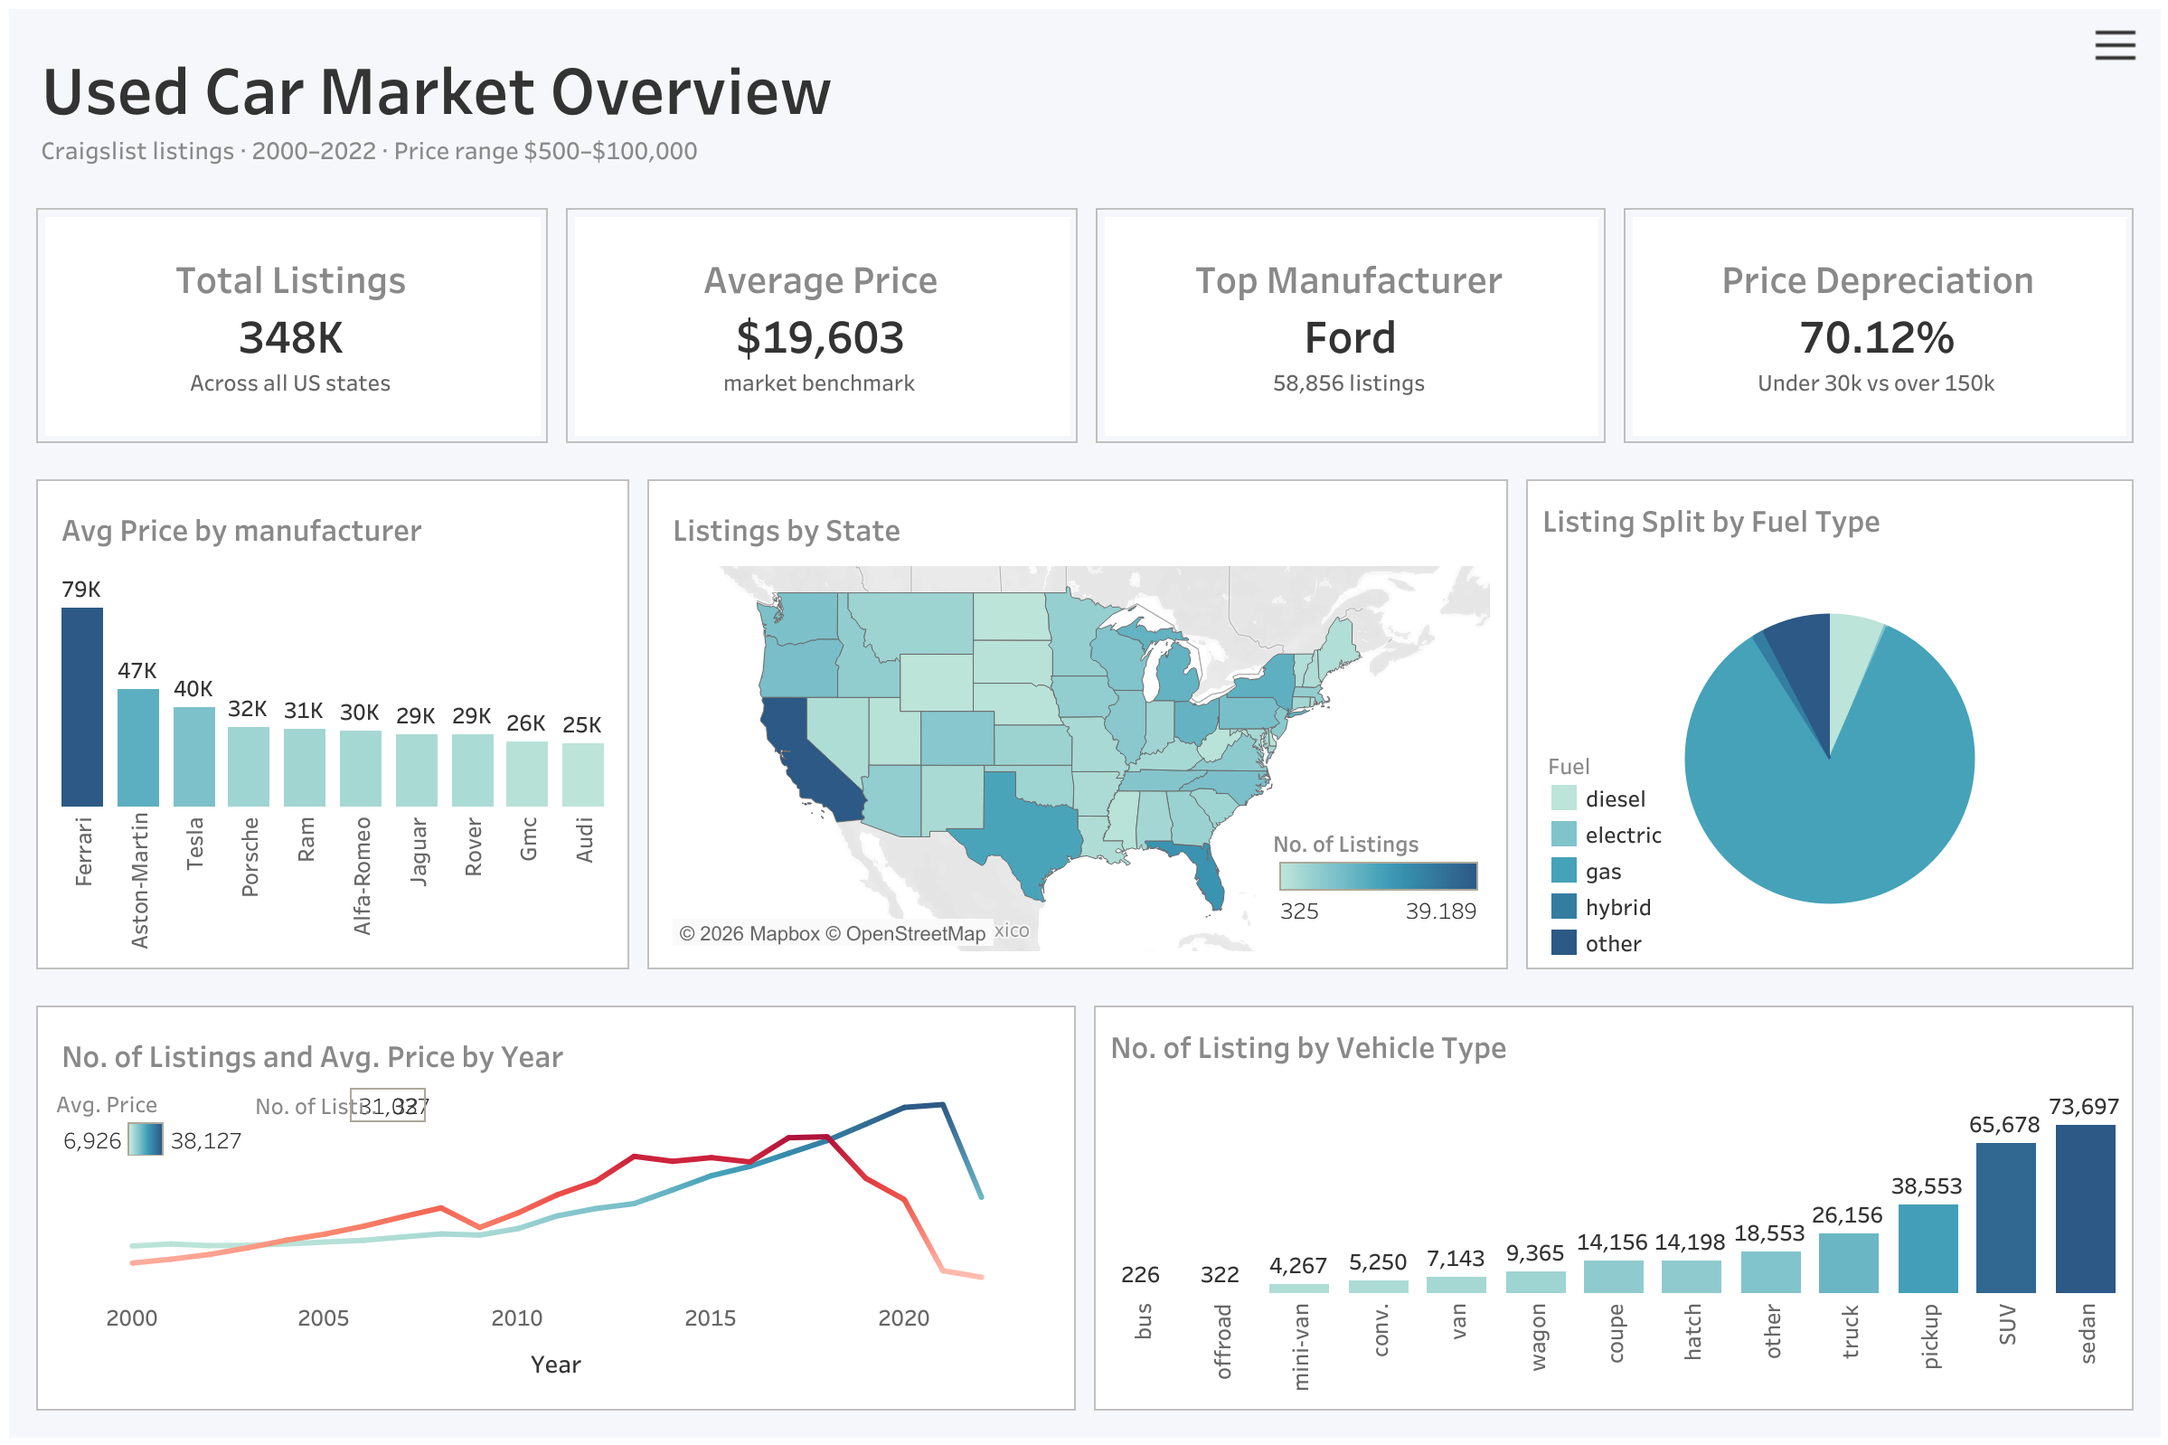
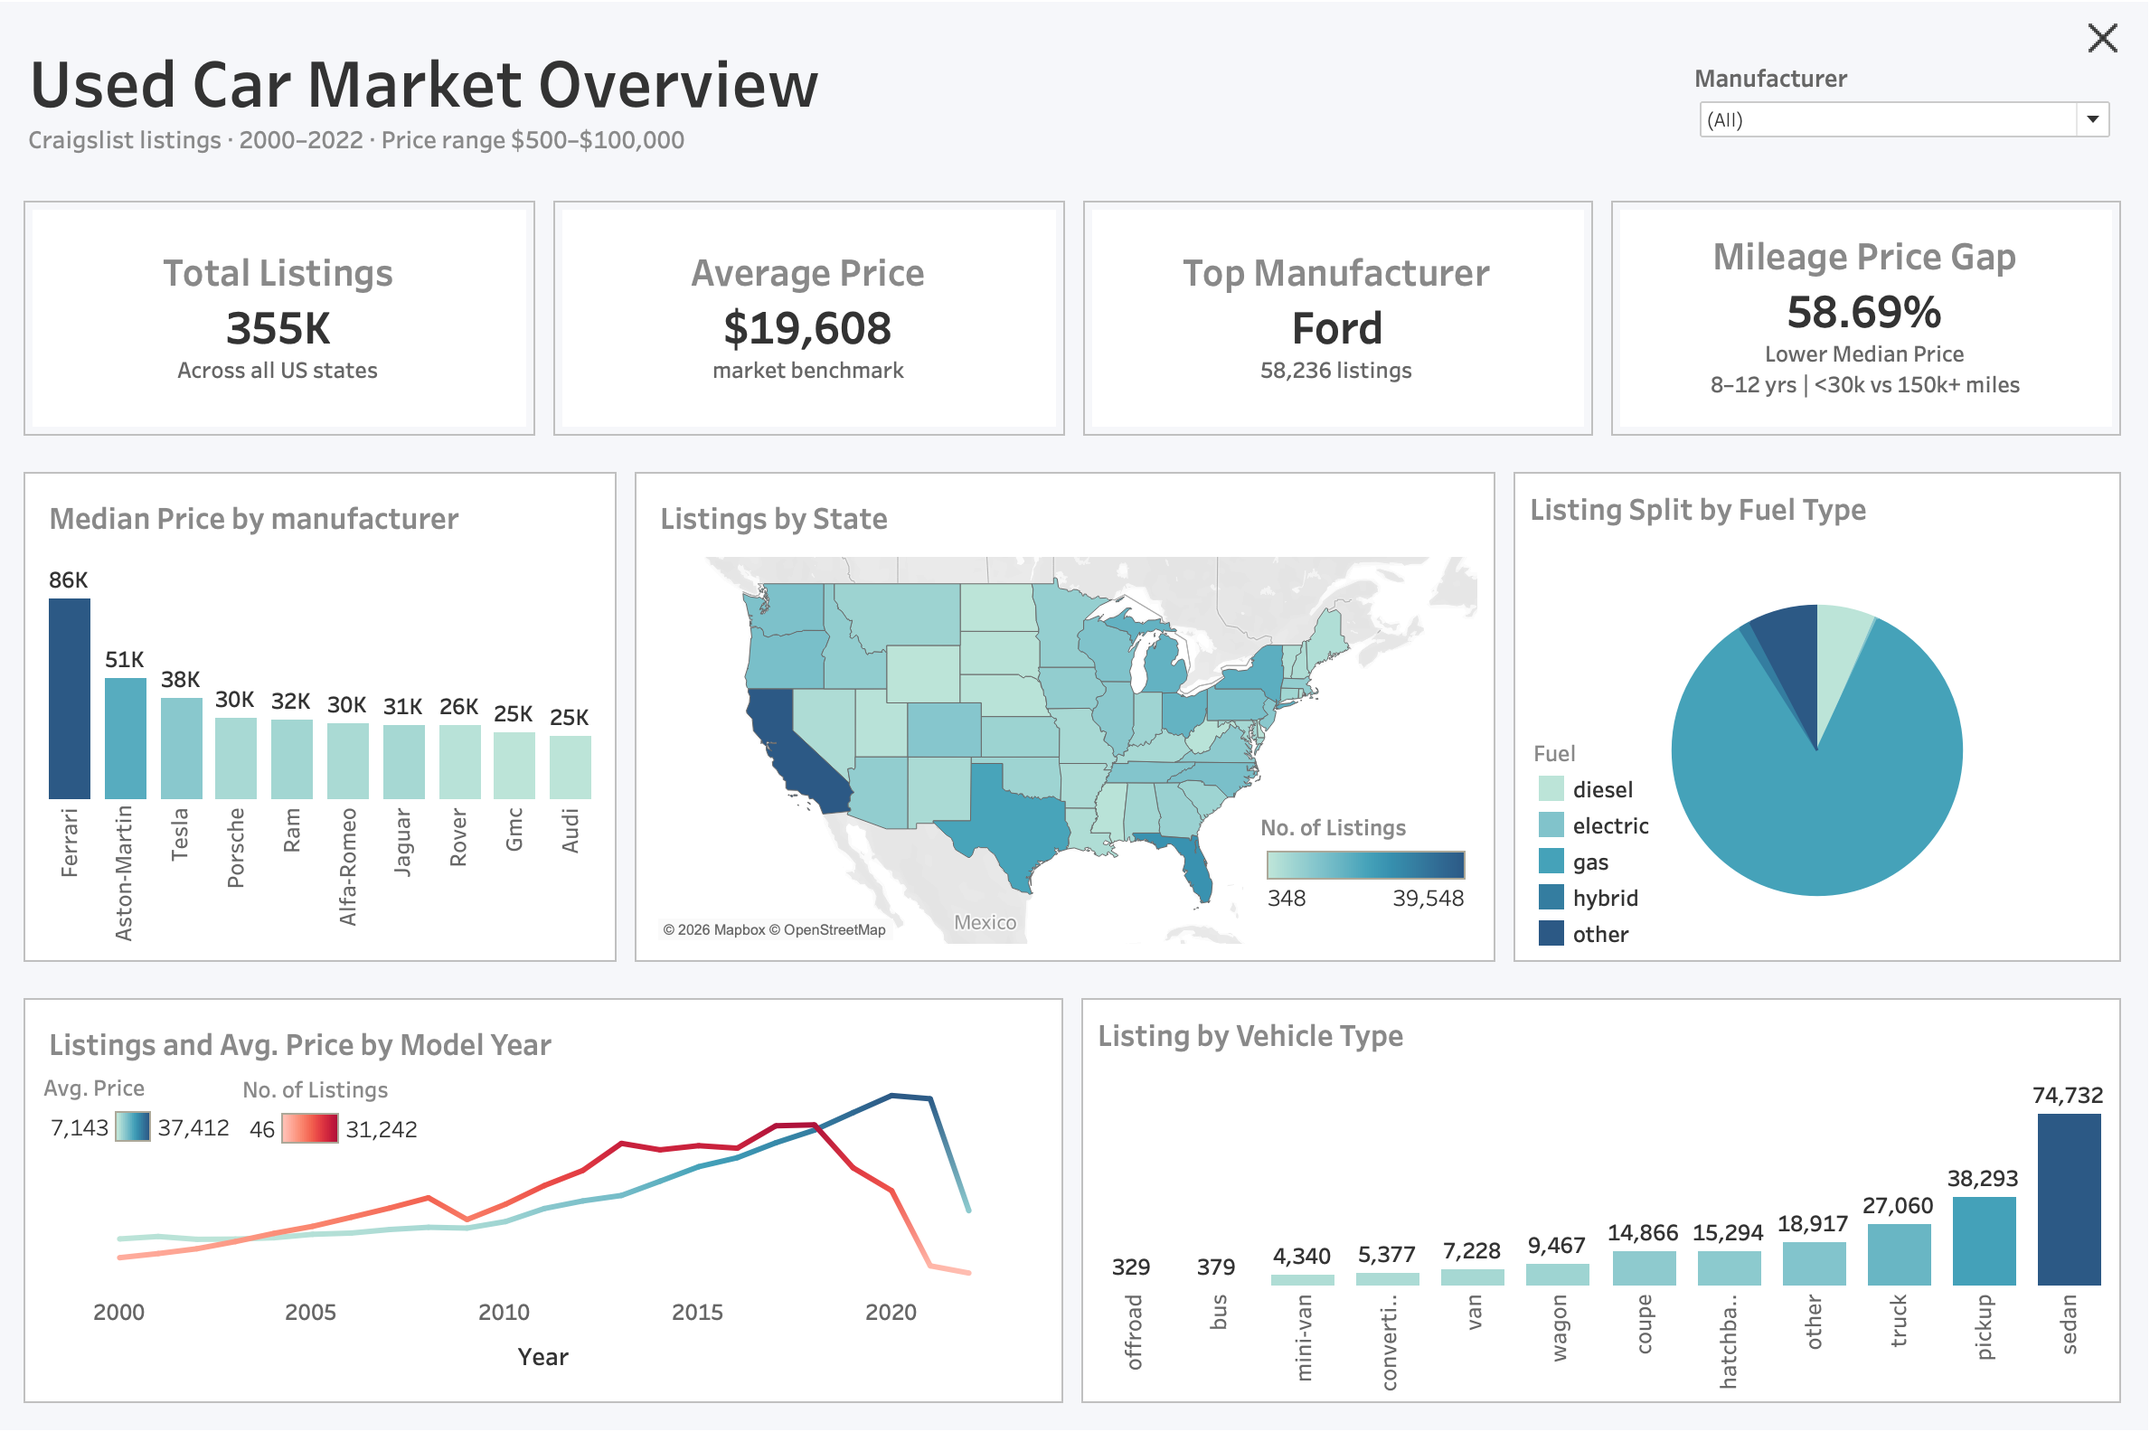
docs: update project documentation, requirements and Tableau analysis

diff --git a/Readme.md b/Readme.md
@@ -1,6 +1,6 @@
 # Resilient Price Engine
 
-**Production-style ML system for used-car price prediction, distribution-shift detection, automated retraining, and safe model promotion.**
+**End-to-end data science and production ML system for used-car market analysis, price prediction, model diagnostics, distribution-shift detection, automated retraining, and safe model promotion.**
 
 ![Python](https://img.shields.io/badge/Python-3.14-blue)
 ![FastAPI](https://img.shields.io/badge/FastAPI-API-green)
@@ -9,13 +9,18 @@
 ![Docker](https://img.shields.io/badge/Container-Docker-blue)
 ![License](https://img.shields.io/badge/License-MIT-lightgrey)
 
-Resilient Price Engine is an end-to-end machine learning system that predicts used-car prices and simulates how a production model can respond to distribution shift.
+Resilient Price Engine is an end-to-end data science and machine learning system built on Craigslist used-vehicle listings.
+
+The project combines SQL and Tableau market analysis with predictive modeling and production-style ML infrastructure. It analyzes pricing relationships and vehicle-segment composition, benchmarks regression models, evaluates held-out prediction errors across market segments, and simulates how a deployed model can respond to distribution shift through automated retraining and gated model promotion.
 
 The project includes:
 
 - reproducible data preprocessing
+- SQL market analysis and segmentation
+- Tableau market visualization
 - model benchmarking across Random Forest, Extra Trees, and XGBoost
 - leakage-resistant group-aware evaluation
+- held-out model error and bias analysis
 - numeric and categorical drift detection
 - automated candidate retraining
 - holdout-gated model promotion
@@ -30,6 +35,23 @@ The project includes:
 ## Key Results
 
 Starting from **426,880 Craigslist vehicle listings**, the preprocessing pipeline retained **354,920 usable rows** after filtering invalid years, prices, mileage values, and duplicate listing IDs.
+
+### Market Analysis
+
+- Found a **58.7% lower median listing price** among 8–12-year-old vehicles with 150k+ miles versus vehicles below 30k miles, after controlling broadly for vehicle age.
+- Identified strong vehicle-composition effects in manufacturer pricing: Ford pickup listings had a **$28,990 median price** versus **$7,995 for sedans**, with similar patterns across Chevrolet, Toyota, and Nissan.
+- Replaced the original aggregate mileage-depreciation interpretation after segment analysis showed that vehicle type and manufacturer mix can materially confound raw pricing comparisons.
+
+### Model Diagnostics
+
+Held-out SQL diagnostics showed substantial variation in model performance across vehicle segments:
+
+- Trucks: approximately **$3,132 MAE**
+- Sedans: approximately **$1,410 MAE**
+- Trucks also showed approximately **+$777 average residual**, indicating systematic underprediction under the project's `actual - predicted` residual definition.
+- Older low-mileage vehicles produced larger dollar errors, but relative error did not consistently worsen, indicating that higher vehicle values, price dispersion, composition, and residual bias all contribute.
+
+### Drift Simulation
 
 The final drift simulation used progressively newer vehicle cohorts:
 
@@ -166,7 +188,77 @@ incoming_2016_2018        88,615
 incoming_2019_2022        41,199
 ```
 
+### Analysis vs Model-Ready Data
+
+The preprocessing pipeline produces separate views of the same cleaned vehicle population for analysis and modeling.
+
+`analysis_vehicle_data.csv` retains:
+
+- listing `id`
+- vehicle model `year`
+- cleaned model features
+- target price
+
+This dataset is used for MySQL analysis and Tableau visualization.
+
+The model-ready data excludes listing identifiers and passes derived `car_age` rather than `year` to the estimator, preventing arbitrary listing IDs from becoming predictive features while preserving model year for analytical use.
+
 ---
+
+## Market Analysis & Model Diagnostics
+
+The project uses MySQL for both exploratory market analysis and post-model diagnostic analysis.
+
+### Age and Mileage
+
+A simple aggregate mileage comparison initially suggested a steep depreciation relationship. To reduce confounding from vehicle age, listings were segmented jointly by age and mileage.
+
+Among vehicles aged 8–12 years:
+
+- median price below 30k miles: **$22,995**
+- median price above 150k miles: **$9,500**
+- difference: **58.7%**
+
+The relationship was not monotonic in every segment. Investigation of anomalous groups showed that higher-mileage cohorts could contain disproportionately large shares of trucks, pickups, and higher-priced manufacturers.
+
+### Vehicle Composition
+
+Manufacturer-level price comparisons were further segmented by vehicle type.
+
+Examples:
+
+| Manufacturer | Sedan Median | Pickup Median |
+| ------------ | -----------: | ------------: |
+| Ford         |       $7,995 |       $28,990 |
+| Chevrolet    |       $7,995 |       $28,999 |
+| Toyota       |       $9,200 |       $27,990 |
+| Nissan       |       $9,000 |       $24,990 |
+
+These results demonstrate why raw manufacturer averages should not be interpreted independently of vehicle mix.
+
+### Held-Out Model Diagnostics
+
+Predictions from the untouched evaluation dataset are exported for SQL analysis with:
+
+- predicted price
+- residual
+- absolute error
+- absolute percentage error
+- listing-to-model price gap
+
+Residual is defined as:
+
+````text
+residual = actual listing price - predicted price
+
+Therefore:
+
+- `positive residual` -> model underprediction
+- `negative residual` -> model overprediction
+
+Segment-level evaluation identified meaningful differences hidden by aggregate MAE. Trucks showed approximately **$3,132 MAE**, compared with approximately **$1,410 for sedans**, while several higher-value segments also showed positive residual bias.
+
+The detailed SQL analysis and Tableau dashboard are documented in [`sql_analysis/`](sql_analysis/).
 
 ## Model Features
 
@@ -174,7 +266,7 @@ The target variable is:
 
 ```text
 price
-```
+````
 
 Features:
 
@@ -562,7 +654,9 @@ resilient-price-engine/
 │
 ├── sql_analysis/
 |   ├── import_csv.py
+|   ├── export_predictions.py
 |   ├── queries.sql
+|   ├── Dashboard.png
 |   └── README.md
 |
 ├── Dockerfile
@@ -637,24 +731,30 @@ uvicorn api.main:app --reload
 
 ![Prediction Endpoint](images/predict_model.png)
 
+### Used Car Market Overview
+
+![Tableau Market Dashboard](sql_analysis/Dashboard.png)
+
 ---
 
 ## Tech Stack
 
-| Technology   | Purpose                            |
-| ------------ | ---------------------------------- |
-| Python       | Core application                   |
-| Pandas       | Data preprocessing                 |
-| Scikit-learn | ML pipelines and tree models       |
-| XGBoost      | Model benchmarking                 |
-| SciPy        | Statistical drift detection        |
-| FastAPI      | Model inference API                |
-| Pydantic     | API input validation               |
-| MLflow       | Experiment tracking                |
-| Joblib       | Model serialization                |
-| Pytest       | Automated tests                    |
-| Docker       | Reproducible inference environment |
-| Uvicorn      | ASGI server                        |
+| Technology   | Purpose                               |
+| ------------ | ------------------------------------- |
+| Python       | Core application                      |
+| Pandas       | Data preprocessing                    |
+| Scikit-learn | ML pipelines and tree models          |
+| XGBoost      | Model benchmarking                    |
+| SciPy        | Statistical drift detection           |
+| FastAPI      | Model inference API                   |
+| Pydantic     | API input validation                  |
+| MLflow       | Experiment tracking                   |
+| Joblib       | Model serialization                   |
+| Pytest       | Automated tests                       |
+| Docker       | Reproducible inference environment    |
+| Uvicorn      | ASGI server                           |
+| MySQL        | Market analysis and model diagnostics |
+| Tableau      | Interactive market visualization      |
 
 ---
 
@@ -664,6 +764,8 @@ uvicorn api.main:app --reload
 - The project uses batch-based drift evaluation rather than a live streaming source.
 - Retraining is performed locally rather than through a managed cloud model registry.
 - Vehicle price estimates depend on the feature quality and coverage of the Craigslist dataset.
+- Craigslist prices represent advertised listing prices rather than confirmed transaction prices.
+- Model-diagnostic analysis uses the held-out baseline cohort, so age-based diagnostic findings primarily describe older vehicle populations rather than the full 2000–2022 dataset.
 
 ---
 

diff --git a/sql_analysis/README.md b/sql_analysis/README.md
@@ -1,36 +1,154 @@
-# SQL & Tableau Pricing Analysis
+# Market Analysis & Model Diagnostics
 
-Supplementary analysis of the Craigslist vehicle dataset using
-MySQL and Tableau, focusing on pricing trends, market segmentation,
-and depreciation patterns.
+SQL and Tableau analysis of the Craigslist used-vehicle dataset,
+covering market structure, pricing relationships, vehicle-segment
+composition, and held-out model performance.
 
-## Business Questions Answered
+The analysis uses the same cleaned vehicle population as the machine
+learning pipeline, ensuring that exploratory analysis and predictive
+modeling are based on consistent preprocessing rules.
 
-1. How do average prices trend across manufacturers and model years?
-2. How does mileage affect resale value?
-3. Which manufacturers dominate used car supply?
-4. Which brands price above the overall market average of $19,202?
-5. What drives RAM trucks to outperform European luxury brands?
-6. How do prices differ by country of origin and brand tier?
+## Dataset
+
+The raw Craigslist dataset contains 426,880 listings.
+
+After deduplication and filtering invalid model years, prices, and
+odometer readings, the preprocessing pipeline retains 354,920 usable
+listings from model years 2000–2022.
+
+The analysis dataset preserves `id` and `year` for SQL and Tableau,
+while the model-ready dataset excludes listing identifiers and uses
+derived `car_age` instead of model year.
+
+## Business Questions
+
+1. How does mileage relate to vehicle price within comparable vehicle-age groups?
+2. How does vehicle-type composition affect manufacturer-level price comparisons?
+3. Which manufacturers and vehicle types are hardest for the price model to predict?
+4. Does model error vary across vehicle age and mileage segments?
+5. Why are older, low-mileage vehicles associated with larger dollar prediction errors?
 
 ## Key Findings
 
-- **70% price depreciation** from under 30k miles to over
-  150k miles
-- **RAM ($31,056) outprice Mercedes-Benz ($23,177)** — driven
-  by high-volume pickup listings averaging $32,101
-- **Ford dominates supply** with 58,856 listings, nearly 2x Toyota
-- **20 manufacturers price above market average of $19,603**, led by
-  Ferrari, Aston-Martin, and Tesla
+### Age-Controlled Mileage Pricing
+
+After controlling broadly for vehicle age, higher mileage remained
+associated with lower listing prices.
+
+For vehicles aged 8–12 years, median listing price declined from
+**$22,995 below 30k miles to $9,500 above 150k miles — a 58.7% difference**.
+
+The relationship was not strictly monotonic across every age group.
+For 4–7-year-old vehicles, the 150k+ mileage segment showed an
+unexpected increase in price. Further analysis showed that this group
+was disproportionately composed of higher-priced trucks and pickups,
+demonstrating how vehicle composition can confound aggregate pricing
+comparisons.
+
+### Manufacturer and Vehicle-Type Composition
+
+Vehicle type explained substantial variation within individual
+manufacturers.
+
+For example:
+
+- Ford pickup median price: **$28,990**
+- Ford sedan median price: **$7,995**
+- Chevrolet pickup median price: **$28,999**
+- Chevrolet sedan median price: **$7,995**
+- Toyota pickup median price: **$27,990**
+- Toyota sedan median price: **$9,200**
+
+These results show why raw manufacturer-level average prices should
+not be interpreted without considering each brand's vehicle mix.
+
+### Model Error by Segment
+
+Held-out predictions were analyzed using MAE, residual bias, and WAPE
+to identify model-performance differences hidden by aggregate metrics.
+
+Truck predictions produced approximately **$3,132 MAE**, compared with
+approximately **$1,410 MAE for sedans**.
+
+Several higher-value segments also showed positive residual bias,
+indicating systematic underprediction. Trucks averaged approximately
+**+$777 residual**, while pickups averaged approximately **+$567**.
+
+### Low-Mileage Vehicle Diagnostics
+
+Among older vehicles in the baseline evaluation cohort, lower-mileage
+vehicles showed substantially larger dollar prediction errors.
+
+Further analysis showed that this was not explained solely by
+vehicle-type composition. The pattern persisted within major segments
+such as sedans, SUVs, coupes, and trucks.
+
+However, relative error did not consistently worsen at lower mileage.
+Low-mileage vehicles also tended to have higher prices and greater price
+dispersion, indicating that the larger dollar errors were driven by a
+combination of:
+
+- higher vehicle values
+- greater price heterogeneity
+- segment composition
+- systematic underprediction in selected groups
+
+This distinction prevents interpreting higher MAE alone as universally
+worse proportional model performance.
 
 ## Dashboard
 
-Interactive Tableau dashboard built on 348k+ filtered listings:
+The Tableau dashboard provides an interactive market overview built on
+the cleaned analysis dataset.
+
+It includes:
+
+- total listing volume
+- market price benchmark
+- top manufacturer
+- age-controlled mileage price gap
+- median price by manufacturer
+- geographic listing distribution
+- fuel-type composition
+- listing and price patterns by model year
+- vehicle-type distribution
+
+Vehicle type can also be selected directly from the dashboard to filter
+the other market views.
 
 ![Dashboard](Dashboard.png)
 
+## Model Diagnostics
+
+Model diagnostics are performed on the held-out evaluation dataset
+rather than the full market dataset.
+
+The SQL analysis evaluates:
+
+- MAE and residual bias by manufacturer
+- MAE and residual bias by vehicle type
+- error by mileage segment
+- error by vehicle-age segment
+- low-mileage prediction behavior within comparable vehicle types
+
+Because the held-out baseline evaluation cohort contains model years
+2000–2012, its age-based diagnostic results primarily represent older
+vehicles and should not be interpreted as performance across the full
+2000–2022 population.
+
 ## Files
 
-- `queries.sql` — All analysis queries with comments explaining
-  business context
-- `dashboard.png` — Interactive Tableau market overview dashboard
+- `queries.sql` — Market analysis, segmentation, and model-diagnostic SQL queries
+- `import_csv.py` — Loads the canonical cleaned analysis dataset into MySQL
+- `export_predictions.py` — Generates row-level held-out predictions and prediction-error metrics
+- `Dashboard.png` — Tableau market-overview dashboard
+
+## Notes
+
+- `year` refers to **vehicle model year**, not listing date.
+- Pricing comparisons describe associations in Craigslist listing data
+  and should not be interpreted as causal depreciation estimates.
+- `price` represents advertised listing price rather than confirmed
+  transaction price.
+- Minimum sample thresholds are used in segmented analyses to reduce
+  conclusions based on very small groups.
